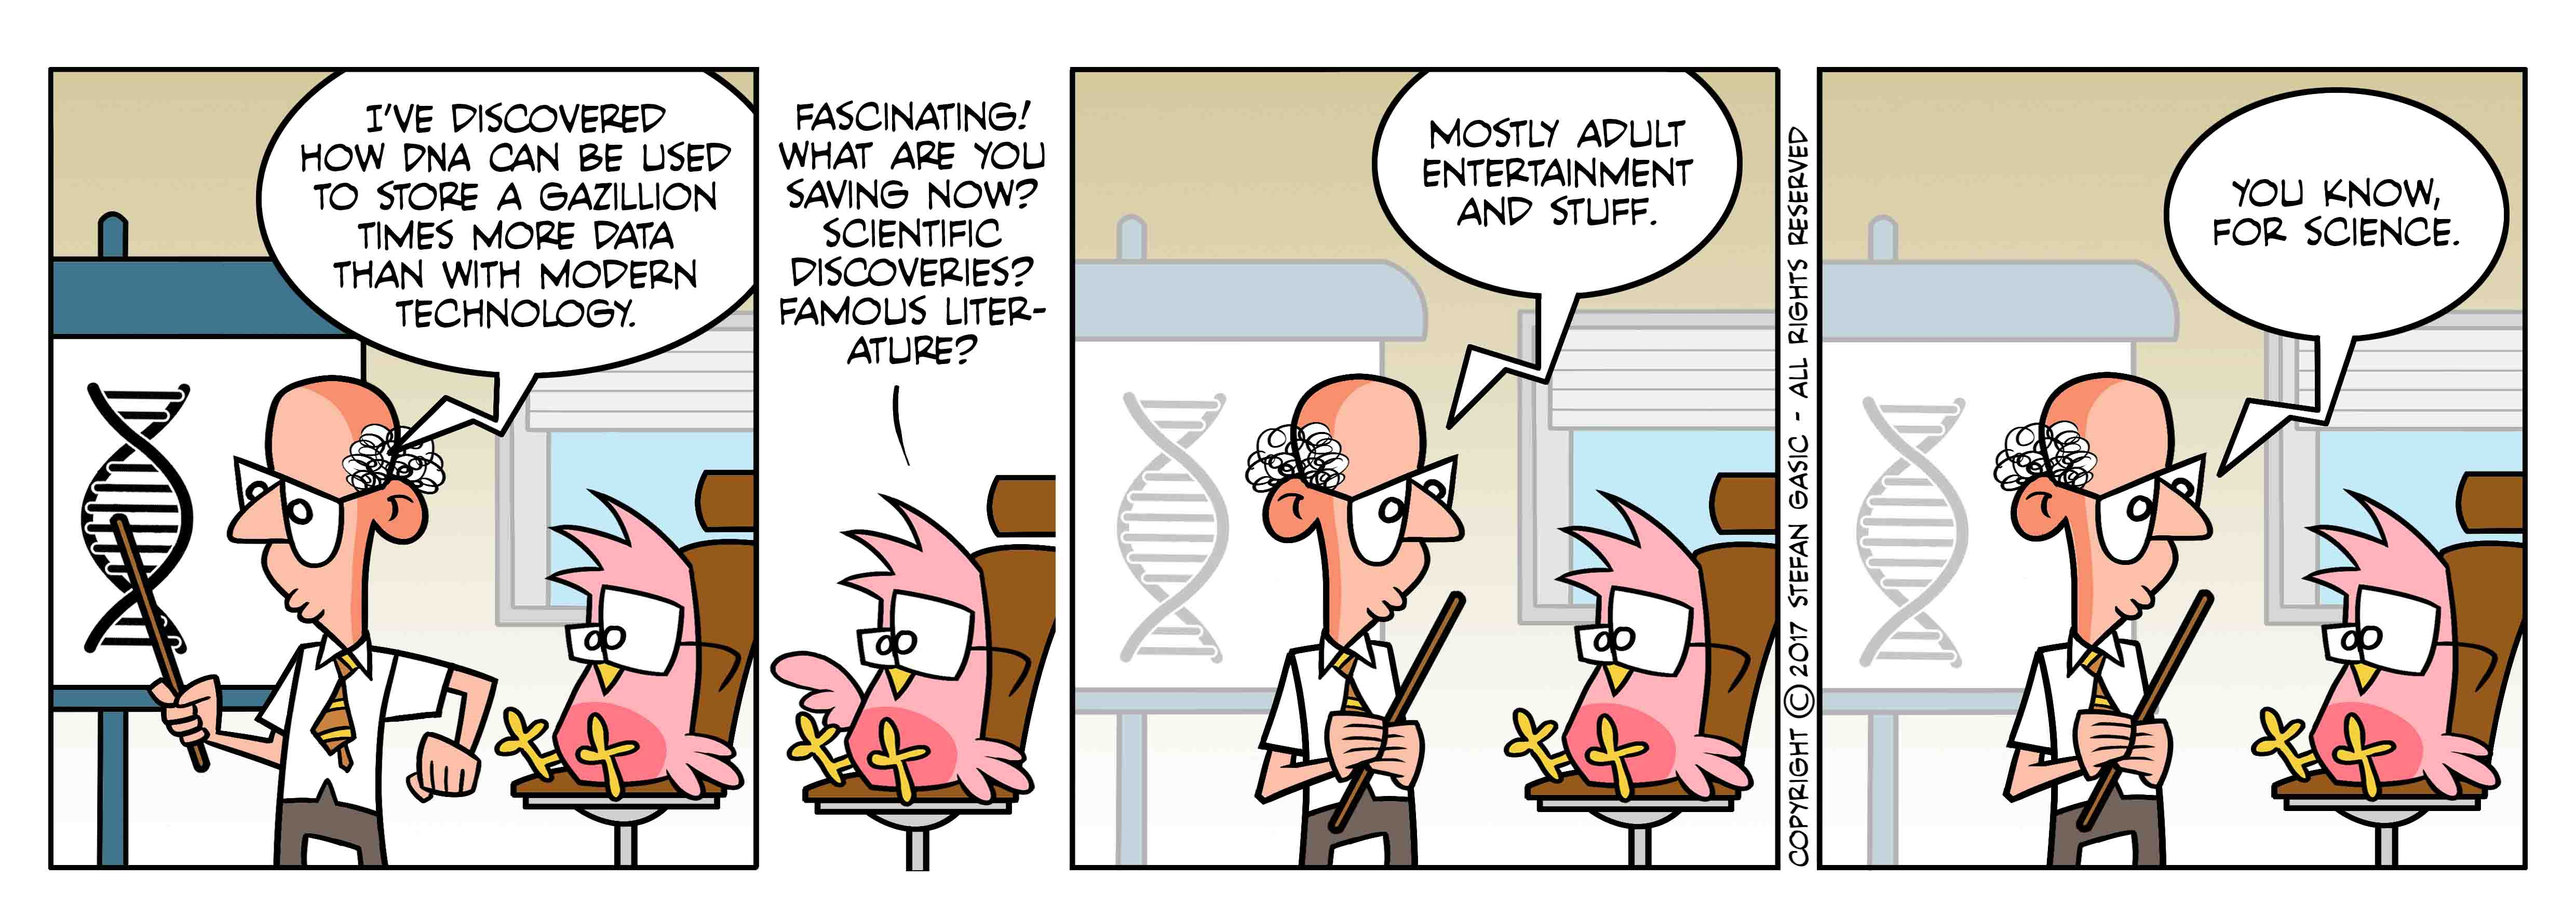
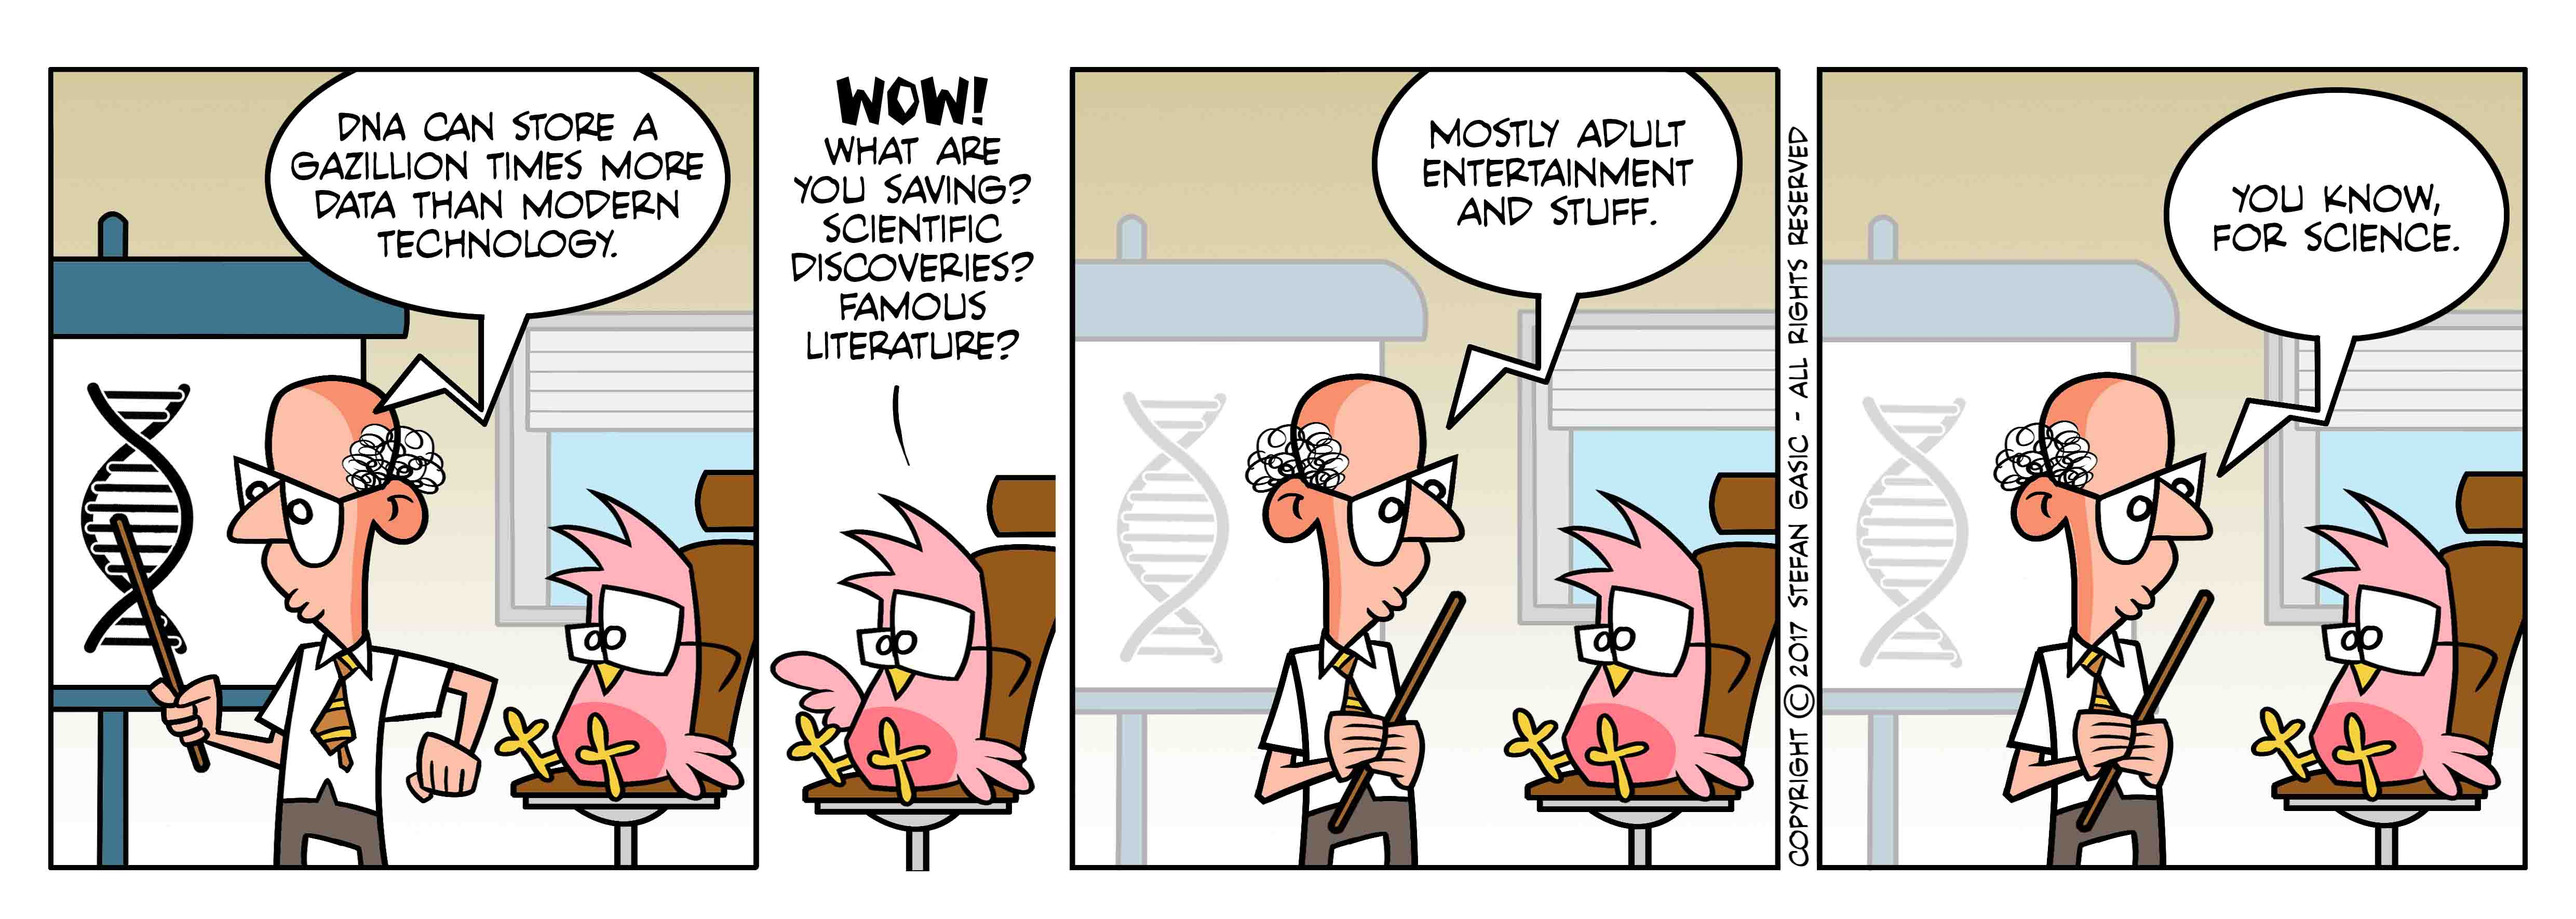
Added new strip and updated html & js accordingly.

Changed region(s): [[0.0937, 0.0621, 0.4062, 0.4972], [0.8436, 0.1864, 0.9686, 0.2797]]

diff --git a/myscripts.js b/myscripts.js
@@ -1,4 +1,4 @@
-var Strips = ["images/S236.jpg","images/S235.jpg","images/S234.jpg","images/S233.jpg","images/S232.jpg","images/S231.jpg","images/S230.jpg","images/S229.jpg","images/S228.jpg","images/S227.jpg","images/S226.jpg","images/S225.jpg","images/S224.jpg","images/S223.jpg","images/S222.jpg","images/S221.jpg","images/S220.jpg","images/S219.jpg","images/S218.jpg","images/S217.jpg","images/S216.jpg","images/S215.jpg","images/S214.jpg","images/S213.jpg","images/S212.jpg","images/S211.jpg","images/S210.jpg","images/S209.jpg","images/S208.jpg","images/S207.jpg","images/S206.jpg","images/S205.jpg","images/S204.jpg","images/S203.jpg","images/S202.jpg","images/S201.jpg","images/S200.jpg","images/S199.jpg","images/S198.jpg","images/S197.jpg","images/S196.jpg","images/S195.jpg","images/S194.jpg","images/S193.jpg","images/S192.jpg","images/S191.jpg","images/S190.jpg","images/S189.jpg","images/S188.jpg","images/S187.jpg","images/S186.jpg","images/S185.jpg","images/S184.jpg","images/S183.jpg","images/S182.jpg","images/S181.jpg","images/S180.jpg","images/S179.jpg","images/S178.jpg","images/S177.jpg","images/S176.jpg","images/S175.jpg","images/S174.jpg","images/S173.jpg","images/S172.jpg","images/S171.jpg","images/S170.jpg","images/S169.jpg","images/S168.jpg","images/S167.jpg","images/S166.jpg","images/S165.jpg","images/S164.jpg","images/S163.jpg","images/S162.jpg","images/S161.jpg","images/S160.jpg","images/S159.jpg","images/S158.jpg","images/S157.jpg","images/S156.jpg","images/S155.jpg","images/S154.jpg","images/S153.jpg","images/S152.jpg","images/S151.jpg","images/S150.jpg","images/S149.jpg","images/S148.jpg","images/S147.jpg","images/S146.jpg","images/S145.jpg","images/S144.jpg","images/S143.jpg","images/S142.jpg","images/S141.jpg","images/S140.jpg","images/S139.jpg","images/S138.jpg","images/S137.jpg","images/S136.jpg","images/S135.jpg","images/S134.jpg","images/S133.jpg","images/S132.jpg","images/S131.jpg","images/S130.jpg","images/S129.jpg","images/S128.jpg","images/S127.jpg","images/S126.jpg","images/S125.jpg","images/S124.jpg","images/S123.jpg","images/S122.jpg","images/S121.jpg","images/S120.jpg","images/S119.jpg","images/S118.jpg","images/S117.jpg","images/S116.jpg","images/S115.jpg","images/S114.jpg","images/S113.jpg","images/S112.jpg","images/S111.jpg","images/S110.jpg","images/S109.jpg","images/S108.jpg","images/S107.jpg","images/S106.jpg","images/S105.jpg","images/S104.jpg","images/S103.jpg","images/S102.jpg","images/S101.jpg","images/S100.jpg","images/S99.jpg","images/S98.jpg","images/S97.jpg","images/S96.jpg","images/S95.jpg","images/S94.jpg","images/S93.jpg","images/S92.jpg","images/S91.jpg","images/S90.jpg","images/S89.jpg","images/S88.jpg","images/S87.jpg","images/S86.jpg","images/S85.jpg","images/S84.jpg","images/S83.jpg","images/S82.jpg","images/S81.jpg","images/S80.jpg","images/S79.jpg","images/S78.jpg","images/S77.jpg","images/S76.jpg","images/S75.jpg","images/S74.jpg","images/S73.jpg","images/S72.jpg","images/S71.jpg","images/S70.jpg","images/S69.jpg","images/S68.jpg","images/S67.jpg","images/S66.jpg","images/S65.jpg","images/S64.jpg","images/S63.jpg","images/S62.jpg","images/S61.jpg","images/S60.jpg","images/S59.jpg","images/S58.jpg","images/S57.jpg","images/S56.jpg","images/S55.jpg","images/S54.jpg","images/S53.jpg","images/S52.jpg","images/S51.jpg","images/S50.jpg","images/S49.jpg","images/S48.jpg","images/S47.jpg","images/S46.jpg","images/S45.jpg","images/S44.jpg","images/S43.jpg","images/S42.jpg","images/S41.jpg","images/S40.jpg","images/S39.jpg","images/S38.jpg","images/S37.jpg","images/S36.jpg","images/S35.jpg","images/S34.jpg","images/S33.jpg","images/S32.jpg","images/S31.jpg","images/S30.jpg","images/S29.jpg","images/S28.jpg","images/S27.jpg","images/S26.jpg","images/S25.jpg","images/S24.jpg","images/S23.jpg","images/S22.jpg","images/S21.jpg","images/S20.jpg","images/S19.jpg","images/S18.jpg","images/S17.jpg","images/S16.jpg","images/S15.jpg","images/S14.jpg","images/S13.jpg","images/S12.jpg","images/S11.jpg","images/S10.jpg","images/S9.jpg","images/S8.jpg","images/S7.jpg","images/S6.jpg","images/S5.jpg","images/S4.jpg","images/S3.jpg","images/S2.jpg","images/S1.jpg"];
+var Strips = ["images/S237.jpg","images/S236.jpg","images/S235.jpg","images/S234.jpg","images/S233.jpg","images/S232.jpg","images/S231.jpg","images/S230.jpg","images/S229.jpg","images/S228.jpg","images/S227.jpg","images/S226.jpg","images/S225.jpg","images/S224.jpg","images/S223.jpg","images/S222.jpg","images/S221.jpg","images/S220.jpg","images/S219.jpg","images/S218.jpg","images/S217.jpg","images/S216.jpg","images/S215.jpg","images/S214.jpg","images/S213.jpg","images/S212.jpg","images/S211.jpg","images/S210.jpg","images/S209.jpg","images/S208.jpg","images/S207.jpg","images/S206.jpg","images/S205.jpg","images/S204.jpg","images/S203.jpg","images/S202.jpg","images/S201.jpg","images/S200.jpg","images/S199.jpg","images/S198.jpg","images/S197.jpg","images/S196.jpg","images/S195.jpg","images/S194.jpg","images/S193.jpg","images/S192.jpg","images/S191.jpg","images/S190.jpg","images/S189.jpg","images/S188.jpg","images/S187.jpg","images/S186.jpg","images/S185.jpg","images/S184.jpg","images/S183.jpg","images/S182.jpg","images/S181.jpg","images/S180.jpg","images/S179.jpg","images/S178.jpg","images/S177.jpg","images/S176.jpg","images/S175.jpg","images/S174.jpg","images/S173.jpg","images/S172.jpg","images/S171.jpg","images/S170.jpg","images/S169.jpg","images/S168.jpg","images/S167.jpg","images/S166.jpg","images/S165.jpg","images/S164.jpg","images/S163.jpg","images/S162.jpg","images/S161.jpg","images/S160.jpg","images/S159.jpg","images/S158.jpg","images/S157.jpg","images/S156.jpg","images/S155.jpg","images/S154.jpg","images/S153.jpg","images/S152.jpg","images/S151.jpg","images/S150.jpg","images/S149.jpg","images/S148.jpg","images/S147.jpg","images/S146.jpg","images/S145.jpg","images/S144.jpg","images/S143.jpg","images/S142.jpg","images/S141.jpg","images/S140.jpg","images/S139.jpg","images/S138.jpg","images/S137.jpg","images/S136.jpg","images/S135.jpg","images/S134.jpg","images/S133.jpg","images/S132.jpg","images/S131.jpg","images/S130.jpg","images/S129.jpg","images/S128.jpg","images/S127.jpg","images/S126.jpg","images/S125.jpg","images/S124.jpg","images/S123.jpg","images/S122.jpg","images/S121.jpg","images/S120.jpg","images/S119.jpg","images/S118.jpg","images/S117.jpg","images/S116.jpg","images/S115.jpg","images/S114.jpg","images/S113.jpg","images/S112.jpg","images/S111.jpg","images/S110.jpg","images/S109.jpg","images/S108.jpg","images/S107.jpg","images/S106.jpg","images/S105.jpg","images/S104.jpg","images/S103.jpg","images/S102.jpg","images/S101.jpg","images/S100.jpg","images/S99.jpg","images/S98.jpg","images/S97.jpg","images/S96.jpg","images/S95.jpg","images/S94.jpg","images/S93.jpg","images/S92.jpg","images/S91.jpg","images/S90.jpg","images/S89.jpg","images/S88.jpg","images/S87.jpg","images/S86.jpg","images/S85.jpg","images/S84.jpg","images/S83.jpg","images/S82.jpg","images/S81.jpg","images/S80.jpg","images/S79.jpg","images/S78.jpg","images/S77.jpg","images/S76.jpg","images/S75.jpg","images/S74.jpg","images/S73.jpg","images/S72.jpg","images/S71.jpg","images/S70.jpg","images/S69.jpg","images/S68.jpg","images/S67.jpg","images/S66.jpg","images/S65.jpg","images/S64.jpg","images/S63.jpg","images/S62.jpg","images/S61.jpg","images/S60.jpg","images/S59.jpg","images/S58.jpg","images/S57.jpg","images/S56.jpg","images/S55.jpg","images/S54.jpg","images/S53.jpg","images/S52.jpg","images/S51.jpg","images/S50.jpg","images/S49.jpg","images/S48.jpg","images/S47.jpg","images/S46.jpg","images/S45.jpg","images/S44.jpg","images/S43.jpg","images/S42.jpg","images/S41.jpg","images/S40.jpg","images/S39.jpg","images/S38.jpg","images/S37.jpg","images/S36.jpg","images/S35.jpg","images/S34.jpg","images/S33.jpg","images/S32.jpg","images/S31.jpg","images/S30.jpg","images/S29.jpg","images/S28.jpg","images/S27.jpg","images/S26.jpg","images/S25.jpg","images/S24.jpg","images/S23.jpg","images/S22.jpg","images/S21.jpg","images/S20.jpg","images/S19.jpg","images/S18.jpg","images/S17.jpg","images/S16.jpg","images/S15.jpg","images/S14.jpg","images/S13.jpg","images/S12.jpg","images/S11.jpg","images/S10.jpg","images/S9.jpg","images/S8.jpg","images/S7.jpg","images/S6.jpg","images/S5.jpg","images/S4.jpg","images/S3.jpg","images/S2.jpg","images/S1.jpg"];
 
 var Current = 0;
 var myStrip = null;

diff --git a/index.html b/index.html
@@ -38,7 +38,7 @@
 		<div class="wrapper6">
 			<div class="wrap-item61"><img src="images/2017_Offshorecomics_web_Today's Offshorecomic.jpg"/></div>
 		</div>
-		<div class="wrap-item1"><img src="images/S236.jpg" id="Strip"/></div>
+		<div class="wrap-item1"><img src="images/S237.jpg" id="Strip"/></div>
 		<div class="wrapper3">
 			<div class="wrap-item3">
 			<button class="button" onClick="Last();">&lsaquo;&lsaquo;</button>
